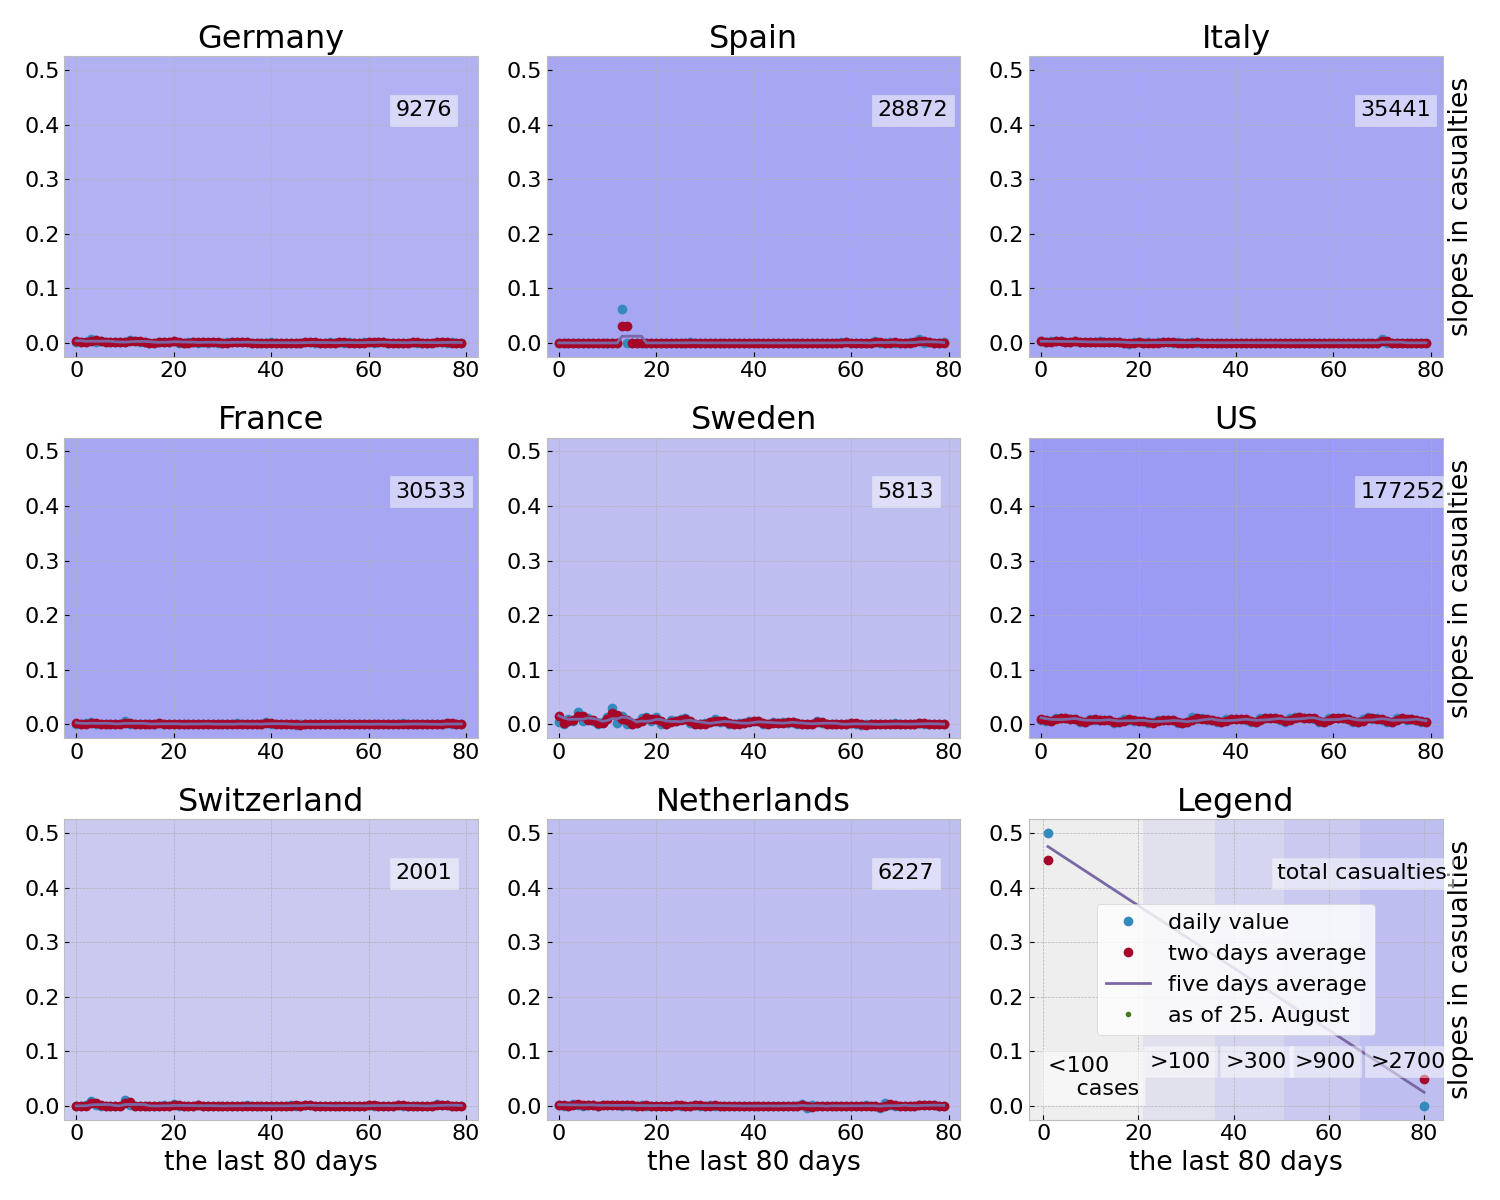
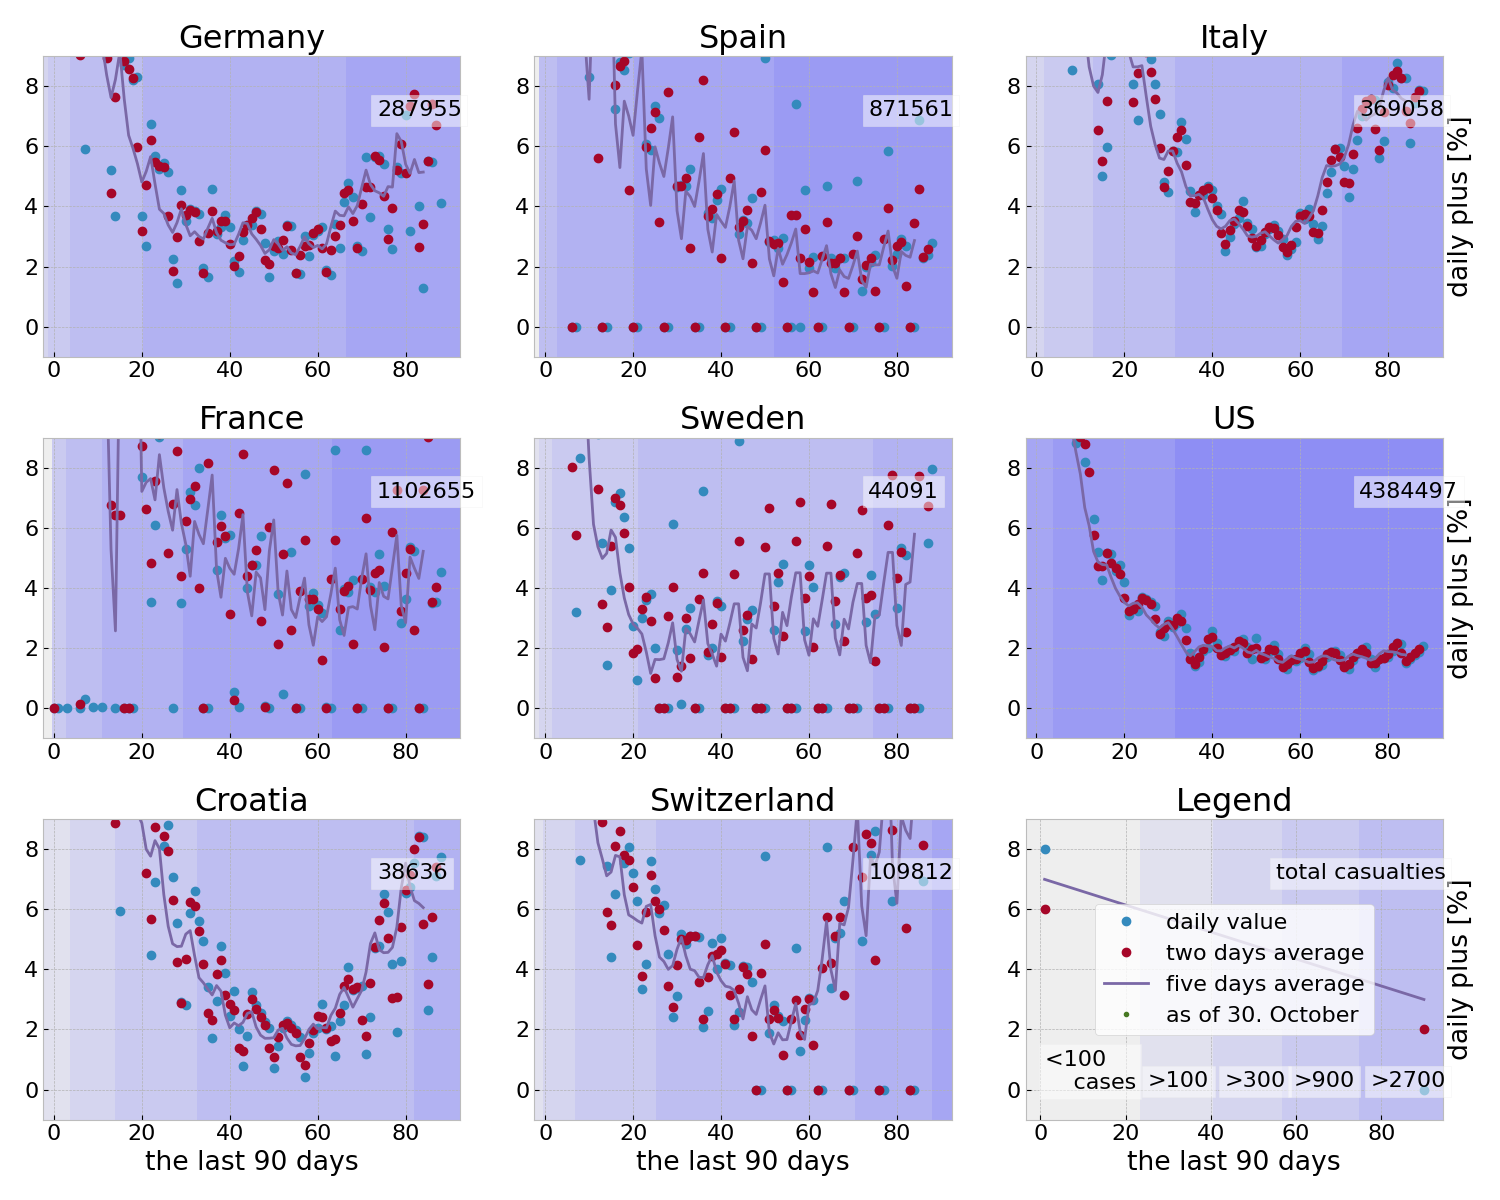
now percentage

diff --git a/ghc_helpers.py b/ghc_helpers.py
@@ -53,7 +53,7 @@ def getxranges(datarray, init=100, factor=3):
 
 
 def plotlogslops(pddf, countryl, ncols=3, fignum=100, dpi=100,
-                 ndays=50, figfile=None):
+                 ndays=100, plotdays=90, figfile=None):
     ncnt = len(countryl)
     nrows = np.int(np.ceil(ncnt/ncols))
     cfig = plt.figure(fignum, figsize=(5*ncols, 4*nrows), dpi=dpi)
@@ -68,19 +68,19 @@ def plotlogslops(pddf, countryl, ncols=3, fignum=100, dpi=100,
         for gdll in gdl[1:]:  # sum up if there are more regions per country
             gda = gda + np.array(gdll[2:])
 
-        slopes, tdavrg, fdavrg = getthelogslope(gda)
-        ax.plot(slopes[-ndays:], 'o', label='daily value')
-        ax.plot(tdavrg[-ndays:], 'o', label='two days average')
-        ax.plot(fdavrg[-ndays:], label='five days average')
+        ggda = gda[-ndays:] - gda[-ndays-1]
+        # slopes, tdavrg, fdavrg = getthelogslope(ggda)
+        slopes, tdavrg, fdavrg = getthepercincreases(ggda)
+        ax.plot(slopes[-plotdays:], 'o', label='daily value')
+        ax.plot(tdavrg[-plotdays:], 'o', label='two days average')
+        ax.plot(fdavrg[-plotdays:], label='five days average')
 
-        ax.set_xlim(xmin=-2.45, xmax=ndays+2.45)
-        if mycountry == 'China':  # or mycountry == 'Korea, South'):
-            ymax, ymin = .525, -.025
-        else:
-            ymax, ymin = .525, -.025
+        ax.set_xlim(xmin=-2.45, xmax=plotdays+2.45)
+        # ymax, ymin = .315, -.015
+        ymax, ymin = 9, -1
         ax.set_ylim(ymin=ymin, ymax=ymax)
 
-        xranges = getxranges(gda[-ndays:], init=100, factor=3)
+        xranges = getxranges(ggda[-ndays:], init=100, factor=3)
         xranges.append(ndays+1)
         lstxmin = 0
         for kk, xrng in enumerate(xranges):
@@ -88,34 +88,42 @@ def plotlogslops(pddf, countryl, ncols=3, fignum=100, dpi=100,
                 xmax = 1
             else:
                 xmax = .975*(xrng-1)/ndays
-            plt.axhspan(-.05, ymax, xmin=lstxmin, xmax=xmax, alpha=alphas[kk])
+            # plt.axhspan(-.05, ymax, xmin=lstxmin, xmax=xmax,
+            #             alpha=alphas[kk])
+            plt.axhspan(-1, ymax, xmin=lstxmin, xmax=xmax, alpha=alphas[kk])
             lstxmin = xmax
 
         if idx >= (nrows-1)*ncols:
-            ax.set_xlabel('the last {0} days'.format(ndays))
+            ax.set_xlabel('the last {0} days'.format(plotdays))
         if np.mod(idx+1, ncols) == 0:
-            ax.set_ylabel('slopes in casualties')
+            ax.set_ylabel('daily plus [%]')
             ax.yaxis.set_label_position("right")
 
-        ax.text(.8, .8, '{0}'.format(gda[-1]), transform=ax.transAxes,
+        ax.text(.8, .8, '{0:d}'.format(np.int(ggda[-1])),
+                transform=ax.transAxes,
                 bbox={'facecolor': 'white', 'alpha': .5})
         ax.set_title(mycountry)
     ax = cfig.add_subplot(nrows, ncols, idx+2)
-    ax.plot([1, ndays], [.5, 0], 'o', label='daily value')
-    ax.plot([1, ndays], [.45, .05], 'o', label='two days average')
-    ax.plot([1, ndays], [.475, .025], label='five days average')
+    ax.plot([1, ndays], [8, 0], 'o', label='daily value')
+    ax.plot([1, ndays], [6, 2], 'o', label='two days average')
+    ax.plot([1, ndays], [7, 3], label='five days average')
     ax.plot(np.NaN, '.', label=today)
-    ymax, ymin = .525, -.025
+    # ymax, ymin = .525, -.025
+    ymax, ymin = 9, -1
     ax.set_ylim(ymin=ymin, ymax=ymax)
     # ax.axis('off')
     ax.legend(loc='center', facecolor='white')
-    ax.set_xlabel('the last {0} days'.format(ndays))
-    ax.set_ylabel('slopes in casualties')
+    ax.set_xlabel('the last {0} days'.format(plotdays))
+    ax.set_ylabel('daily plus [%]')
     ax.yaxis.set_label_position("right")
-    plt.axhspan(-.025, .525, xmin=0.275, xmax=.45, alpha=.05)
-    plt.axhspan(-.025, .525, xmin=0.45, xmax=.615, alpha=.1)
-    plt.axhspan(-.025, .525, xmin=0.615, xmax=.8, alpha=.15)
-    plt.axhspan(-.025, .525, xmin=0.8, xmax=1., alpha=.2)
+    # plt.axhspan(-.025, .525, xmin=0.275, xmax=.45, alpha=.05)
+    # plt.axhspan(-.025, .525, xmin=0.45, xmax=.615, alpha=.1)
+    # plt.axhspan(-.025, .525, xmin=0.615, xmax=.8, alpha=.15)
+    # plt.axhspan(-.025, .525, xmin=0.8, xmax=1., alpha=.2)
+    plt.axhspan(-1, 9, xmin=0.275, xmax=.45, alpha=.05)
+    plt.axhspan(-1, 9, xmin=0.45, xmax=.615, alpha=.1)
+    plt.axhspan(-1, 9, xmin=0.615, xmax=.8, alpha=.15)
+    plt.axhspan(-1, 9, xmin=0.8, xmax=1., alpha=.2)
     bbstl = {'facecolor': 'white', 'alpha': .5}
     ax.text(.6, .8, 'total casualties', transform=ax.transAxes,
             bbox=bbstl)
@@ -163,7 +171,7 @@ def lmonthslops(pddf, countryl, ncols=3, fignum=100, dpi=100,
             ax.set_ylabel('daily plus [%]')
             ax.yaxis.set_label_position("right")
 
-        ax.text(.8, .8, '{0}'.format(gda[-1]-gda[-plotdays-1]),
+        ax.text(.8, .8, '{0:d}'.format(np.int(gda[-1]-gda[-plotdays-1])),
                 transform=ax.transAxes,
                 bbox={'facecolor': 'white', 'alpha': .5})
         ax.set_title(mycountry)
@@ -172,7 +180,8 @@ def lmonthslops(pddf, countryl, ncols=3, fignum=100, dpi=100,
     ax.plot([1, plotdays], [.45, .05], 'o', label='two days average')
     ax.plot([1, plotdays], [.475, .025], label='five days average')
     ax.plot(np.NaN, '.', label=today)
-    ymax, ymin = .525, -.025
+    # ymax, ymin = .525, -.025
+    ymax, ymin = 9, -1
     ax.set_ylim(ymin=ymin, ymax=ymax)
     # ax.axis('off')
     ax.legend(loc='center', facecolor='white')

diff --git a/deathgrowthrates.py b/deathgrowthrates.py
@@ -3,12 +3,12 @@ import pandas as pd
 import matplotlib.pyplot as plt
 import matplotlib
 from ghc_helpers import plotlogslops, getthelogslope, lmonthslops
-
+from ghc_helpers import getthepercincreases
 
 font = {'family': 'normal',
         # 'weight': 'bold',
         'size': 16}
-ndays = 80
+ndays = 90
 
 matplotlib.rc('font', **font)
 
@@ -56,22 +56,23 @@ expgrwth = np.array([1.1**x for x in range(N)])
 expgrwthl = []
 for x in range(N):
     expgrwthl.append(expgrwth[:x].sum())
-xpgslp, _, _ = getthelogslope(10+np.array(expgrwthl))
+xpgslp, _, _ = getthepercincreases(10+np.array(expgrwthl))
+xpgslp, _, _ = getthepercincreases(10+np.array(expgrwthl))
 lingrwth = np.array([100+10*x for x in range(N)])
-lngslp, _, _ = getthelogslope(lingrwth)
+lngslp, _, _ = getthepercincreases(lingrwth)
 expdecay = np.exp(-.1*np.arange(N))
 exdgrwth = []
 for x in range(N):
     exdgrwth.append(1000+100*expdecay[:x].sum())
 exdgrwth = np.array(exdgrwth)
-edslp, _, _ = getthelogslope(exdgrwth)
+edslp, _, _ = getthepercincreases(exdgrwth)
 cfig = plt.figure(2, figsize=(8, 4), dpi=100)
 ax = cfig.add_subplot(1, 1, 1)
 ax.plot(xpgslp, 'o', label='exponential growth')
 ax.plot(lngslp, 'o', label='constant growth')
 ax.plot(edslp, 'o', label='decaying growth')
 ax.set_title('Example Scenarios')
-ax.set_ylabel('slopes in casualties')
+ax.set_ylabel('daily plus [%]')
 ax.set_xlabel('days of simulation')
 ax.yaxis.set_label_position("right")
 plt.tight_layout()
@@ -86,18 +87,19 @@ covidsimdata = pd.read_csv('CovidSIM-results-1.csv')
 covidsimdatanoi = pd.read_csv('CovidSIM-results-2.csv')
 deaths = covidsimdata[' Deaths'].values
 deathsnoi = covidsimdatanoi[' Deaths'].values
-covisim, _, _ = getthelogslope(deaths)
-covisimnoi, _, _ = getthelogslope(deathsnoi)
+covisim, _, _ = getthepercincreases(deaths)
+covisimnoi, _, _ = getthepercincreases(deathsnoi)
 
 icus = covidsimdata[' ICU'].values
 icusnoi = covidsimdatanoi[' ICU'].values
 
 ax.plot(covisimnoi, 'o', label='Scenario without intervention')
 ax.plot(covisim, 'o', label='Scenario with max ICU < 45,000')
-ax.set_ylim(ymin=-.05, ymax=.5)
+# ax.set_ylim(ymin=-.05, ymax=.5)
+ax.set_ylim(ymin=-1, ymax=9)
 ax.legend(facecolor='white')
 ax.set_title('Simulated Slopes for Germany')
-ax.set_ylabel('slopes in casualties')
+ax.set_ylabel('daily plus [%]')
 ax.yaxis.set_label_position("right")
 ax.set_xlabel('days of simulation')
 
